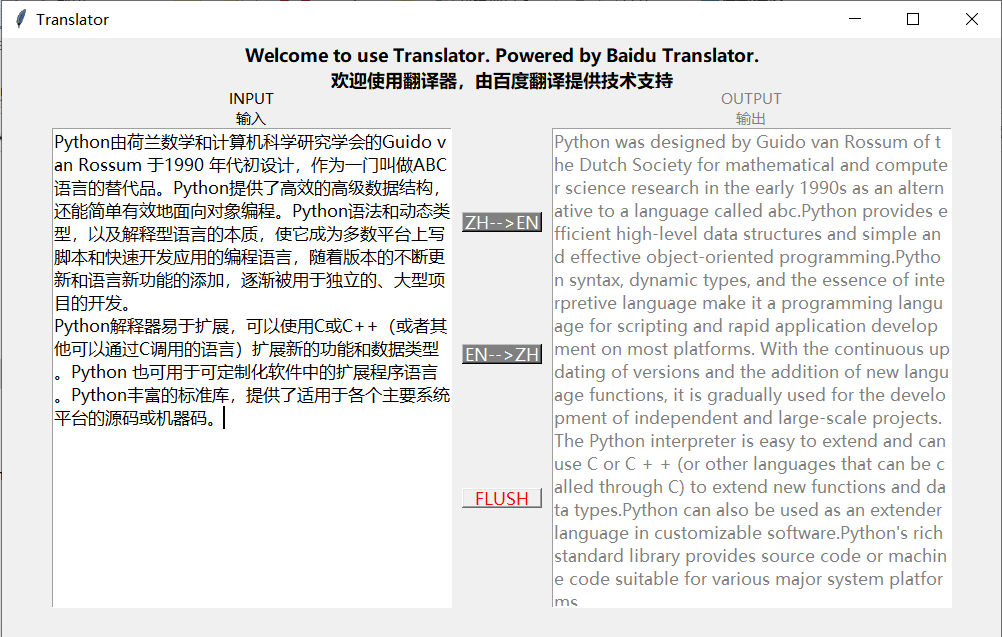
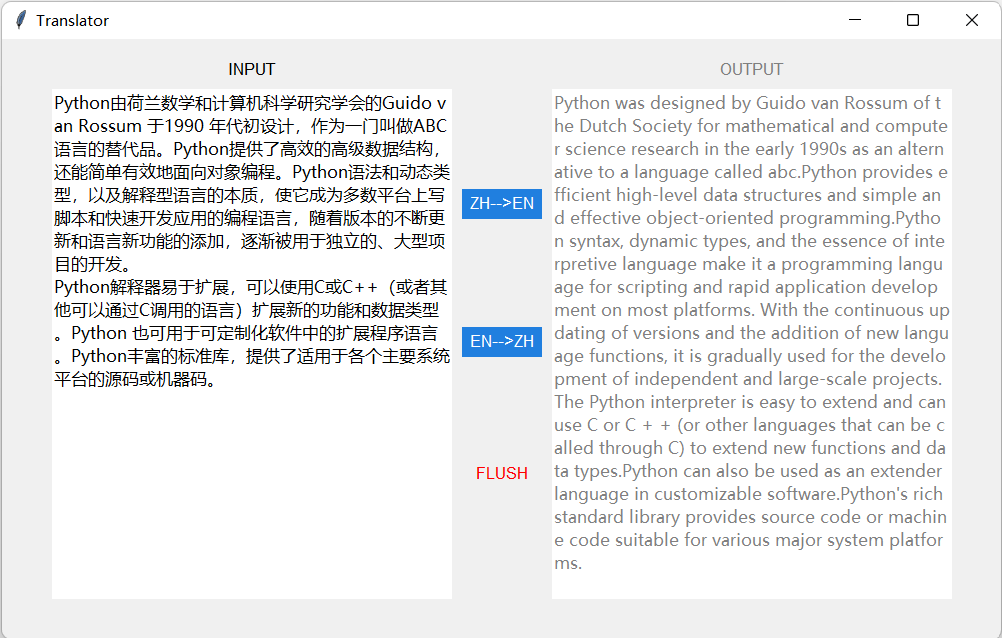
optimized GUI and fix some errors

Changed region(s): [[0.0309, 0.0597, 0.9591, 0.9545], [0.0, 0.0, 1.0, 0.0597], [0.99, 0.9843, 1.0, 1.0]]

diff --git a/BaiduTranslator/BaiduTranslator.py b/BaiduTranslator/BaiduTranslator.py
@@ -7,8 +7,9 @@ import js2py
 import requests
 import re
 from tkinter import *
+import ctypes
 
-# 以下内容请自行抓包获取
+# 以下内容请自行抓包获取，注意需要可能需要登录百度账号再获取有关信息
 USER_AGENT = ''
 COOKIE = ''
 TOKEN = ''
@@ -27,7 +28,7 @@ class BaiDuTranslator:
             'to': '',
             'query': self.query,
             'simple_means_flag': 3,
-            'transtype': 'enter',
+            'transtype': 'translang',
             'sign': '',
             'token': TOKEN,
             'domain': 'common'
@@ -110,18 +111,23 @@ class BaiDuTranslator:
         self.data['from'] = 'en'
         self.data['to'] = 'zh'
         # 发送翻译请求
-        response = requests.Session().post(
-            self.url, data=self.data, headers=self.headers).json()
+        response = requests.Session().post(self.url,
+                                           data=self.data,
+                                           headers=self.headers).json()
         # 解析数据
-        result_array = response['trans_result']['data']
-        result = ''
-        for i in range(0, len(result_array)):
-            for j in range(0, len(result_array[i]['result'])):
-                result += result_array[i]['result'][j][1]
-            result += '\n'
-        # 输出
-        output.delete('0.0', END)
-        output.insert(INSERT, result)
+        try:
+            result_array = response['trans_result']['data']
+            result = ''
+            for i in range(0, len(result_array)):
+                for j in range(0, len(result_array[i]['result'])):
+                    result += result_array[i]['result'][j][1]
+                result += '\n'
+            # 输出
+            output.delete('0.0', END)
+            output.insert(INSERT, result)
+        except:
+            output.delete('0.0', END)
+            output.insert(INSERT, "ERROR, Can not Translate now!")
 
     def Translate_From_zh_To_en(self):
         # 首先获取sign
@@ -130,77 +136,115 @@ class BaiDuTranslator:
         self.data['from'] = 'zh'
         self.data['to'] = 'en'
         # 发送翻译请求
-        response = requests.Session().post(
-            self.url, data=self.data, headers=self.headers).json()
+        response = requests.Session().post(self.url,
+                                           data=self.data,
+                                           headers=self.headers).json()
         # 解析数据
-        result_array = response['trans_result']['data']
-        result = ''
-        for i in range(0, len(result_array)):
-            for j in range(0, len(result_array[i]['result'])):
-                result += result_array[i]['result'][j][1]
-            result += '\n'
-        # 输出
-        output.delete('0.0', END)
-        output.insert(INSERT, result)
-
-
-TEXT = 'Welcome to use Translator. Powered by Baidu Translator.\n欢迎使用翻译器，由百度翻译提供技术支持'
-REMINDER_EN = 'Waiting to response......'
-REMINDER_ZH = '等待响应中......'
+        try:
+            result_array = response['trans_result']['data']
+            result = ''
+            for i in range(0, len(result_array)):
+                for j in range(0, len(result_array[i]['result'])):
+                    result += result_array[i]['result'][j][1]
+                result += '\n'
+            # 输出
+            output.delete('0.0', END)
+            output.insert(INSERT, result)
+        except:
+            output.delete('0.0', END)
+            output.insert(INSERT, "出现异常，暂时无法翻译!")
 
 
 def getrans_zh_to_en():
     word = input.get('0.0', END)
-    Trans = BaiDuTranslator(word)
-    output.delete('0.0', END)
-    output.insert(INSERT, str(REMINDER_ZH))
-    root.update()
-    Trans.Translate_From_zh_To_en()
+    temp = word.replace('\n', '')
+    if len(temp) == 0:
+        output.delete('0.0', END)
+        output.insert(INSERT, "请输入至少一个词语。")
+    else:
+        Trans = BaiDuTranslator(word)
+        output.delete('0.0', END)
+        output.insert(INSERT, '等待响应中......')
+        btn_zh_to_en['state'] = DISABLED
+        btn_en_to_zh['state'] = DISABLED
+        root.update()
+        Trans.Translate_From_zh_To_en()
+        btn_zh_to_en['state'] = NORMAL
+        btn_en_to_zh['state'] = NORMAL
 
 
 def getrans_en_to_zh():
     word = input.get('0.0', END)
-    Trans = BaiDuTranslator(word)
-    output.delete('0.0', END)
-    output.insert(INSERT, str(REMINDER_EN))
-    root.update()
-    Trans.Translate_From_en_To_zh()
+    temp = word.replace('\n', '')
+    if len(temp) == 0:
+        output.delete('0.0', END)
+        output.insert(INSERT, "You should input at least one word.")
+    else:
+        Trans = BaiDuTranslator(word)
+        output.delete('0.0', END)
+        output.insert(INSERT, 'Waiting to response......')
+        btn_zh_to_en['state'] = DISABLED
+        btn_en_to_zh['state'] = DISABLED
+        root.update()
+        Trans.Translate_From_en_To_zh()
+        btn_zh_to_en['state'] = NORMAL
+        btn_en_to_zh['state'] = NORMAL
 
 
 def flush():
     input.delete('0.0', END)
     output.delete('0.0', END)
+    btn_zh_to_en['state'] = NORMAL
+    btn_en_to_zh['state'] = NORMAL
 
 
+# -------------------------------- GUI界面 --------------------------------
 root = Tk()
+# 高dpi
+ctypes.windll.shcore.SetProcessDpiAwareness(1)
+ScaleFactor = ctypes.windll.shcore.GetScaleFactorForDevice(0)
+root.tk.call('tk', 'scaling', ScaleFactor/75)
+
 root.title('Translator')
 root.geometry('1000x600')
 
-header = Label(root, text=TEXT, font=("微软雅黑", 11, "bold"))
-header.place(relx=0.1, y=5, relwidth=0.8, height=50)
+lab1 = Label(root, text='INPUT', font=("Helvetica", 10))
+lab1.place(relx=0.15, y=20, relwidth=0.2, height=20)
 
-lab1 = Label(root, text='INPUT\n输入', font=("微软雅黑", 9))
-lab1.place(relx=0.15, y=50, relwidth=0.2, height=40)
+lab2 = Label(root, text='OUTPUT', fg="gray", font=("Helvetica", 10))
+lab2.place(relx=0.65, y=20, relwidth=0.2, height=20)
 
-lab2 = Label(root, text='OUTPUT\n输出', fg="gray", font=("微软雅黑", 9))
-lab2.place(relx=0.65, y=50, relwidth=0.2, height=40)
+input = Text(root, relief="flat", font=("微软雅黑", 10))
+input.place(relx=0.05, y=50, relwidth=0.4, relheight=0.85)
 
-input = Text(root, font=("微软雅黑", 10))
-input.place(relx=0.05, y=90, relwidth=0.4, relheight=0.8)
+output = Text(root, fg="gray", relief="flat", font=("微软雅黑", 10))
+output.place(relx=0.55, y=50, relwidth=0.4, relheight=0.85)
 
-output = Text(root, fg="gray", font=("微软雅黑", 10))
-output.place(relx=0.55, y=90, relwidth=0.4, relheight=0.8)
+btn_zh_to_en = Button(root,
+                      text='ZH-->EN',
+                      font=("Helvetica", 10),
+                      fg="white",
+                      bg="#207fdf",
+                      relief="flat",
+                      command=getrans_zh_to_en)
+btn_zh_to_en.place(relx=0.46, rely=0.25, relwidth=0.08, height=30)
 
-btn_zh_to_en = Button(root, text='ZH-->EN', font=("微软雅黑", 10),
-                      fg="white", bg="gray", command=getrans_zh_to_en)
-btn_zh_to_en.place(relx=0.46, rely=0.29, relwidth=0.08, height=20)
+btn_en_to_zh = Button(root,
+                      text='EN-->ZH',
+                      font=("Helvetica", 10),
+                      fg="white",
+                      bg="#207fdf",
+                      relief="flat",
+                      command=getrans_en_to_zh)
+btn_en_to_zh.place(relx=0.46, rely=0.48, relwidth=0.08, height=30)
 
-btn_zh_to_en = Button(root, text='EN-->ZH', font=("微软雅黑", 10),
-                      fg="white", bg="gray", command=getrans_en_to_zh)
-btn_zh_to_en.place(relx=0.46, rely=0.51, relwidth=0.08, height=20)
-
-btn_flush = Button(root, text='FLUSH', font=(
-    "微软雅黑", 10), fg="red", command=flush)
-btn_flush.place(relx=0.46, rely=0.75, relwidth=0.08, height=20)
+btn_flush = Button(root,
+                   text='FLUSH',
+                   font=("Helvetica", 10),
+                   fg="red",
+                   relief="flat",
+                   command=flush)
+btn_flush.place(relx=0.46, rely=0.70, relwidth=0.08, height=30)
 
 root.mainloop()
+# -------------------------------- GUI界面 --------------------------------

diff --git a/BaiduTranslator/README.md b/BaiduTranslator/README.md
@@ -1,8 +1,8 @@
-## 基于百度翻译的本地化中英翻译器
+# 基于百度翻译的本地化中英翻译器
 
 **代码介绍见[我的Blog](https://komorebi660.github.io/2021/08/22/BaiduTranslator/)**
 
-### 代码使用
+## 代码使用
 
 安装依赖库：
 
@@ -29,15 +29,27 @@ sudo apt-get install python3-tk
 - **COOKIE**：位于`Request Headers`中的`Cookie`;
 - **TOKEN**：位于`From Data`中的`token`.
 
-进入[百度翻译](https://fanyi.baidu.com/), 打开浏览器的开发者工具，在`Request URL`为`https://fanyi.baidu.com/v2transapi`处获取.
+进入[百度翻译](https://fanyi.baidu.com/), 按`F12`打开浏览器的开发者工具，在`Request URL`为`https://fanyi.baidu.com/v2transapi`处可以获取上述参数.
 
-### 使用示例
+**注意：最新的百度翻译可能需要登录百度账号才可以使用，建议先登录百度账号再抓取有关内容。**
+
+## 使用示例
 
 运行结果如下：
 
 ![运行结果1](result1.png)
 
 ![运行结果2](result2.png)
+
+运行时出现：
+
+```
+ERROR, Can not Translate now!
+或
+出现异常，暂时无法翻译!
+```
+
+原因是翻译结果没有正常返回，可能的原因是参数设置错误。
 
 在`Windows`环境下，你还可以将其打包为`.exe`文件，这样即使电脑不含`Python`也能运行，方法如下：
 
